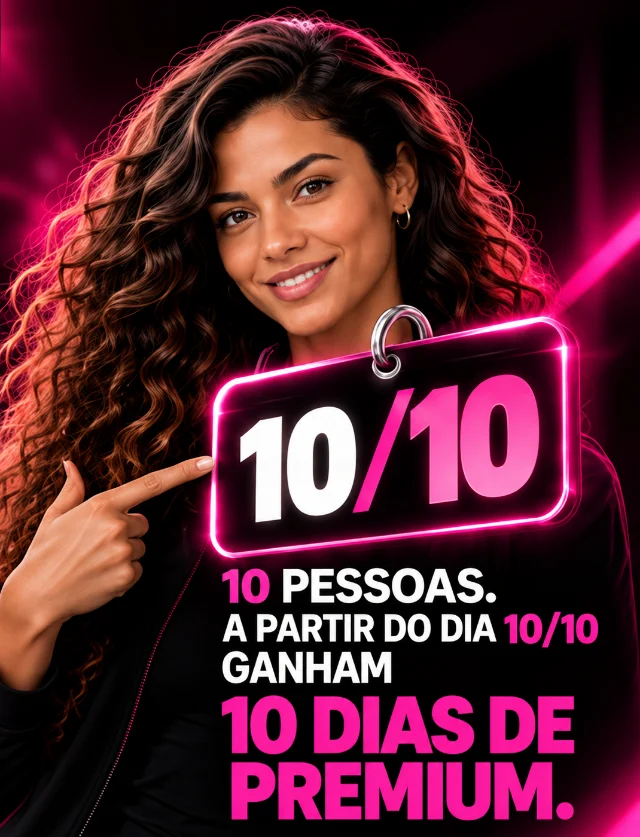
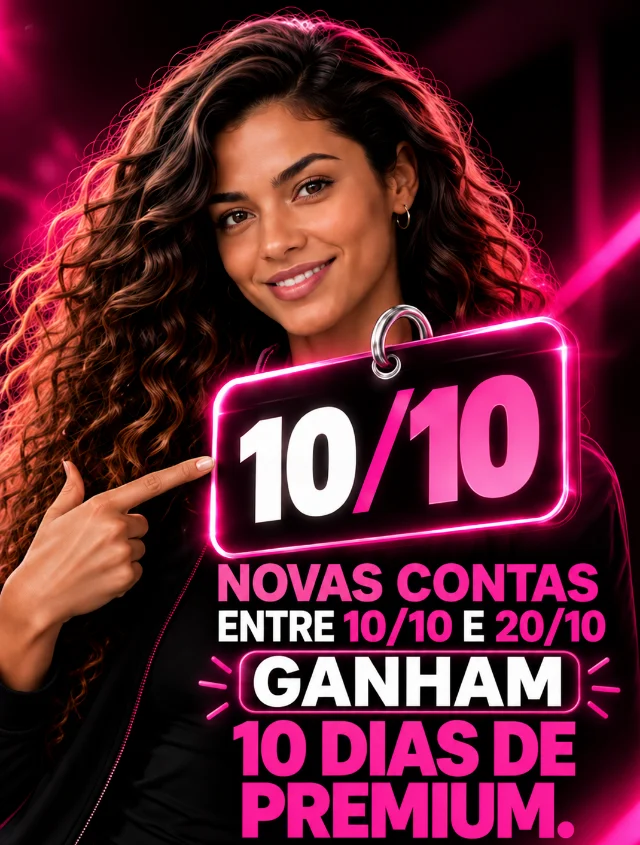
Launch popup: new art for the period (new accounts from 10/10 to 20/10)
Claude-Session: https://claude.ai/code/session_01J4mnLTKgmABHoSQbGZ8wnB

diff --git a/src/components/home/LaunchCampaignPopup.tsx b/src/components/home/LaunchCampaignPopup.tsx
@@ -91,7 +91,7 @@ export function LaunchCampaignPopup() {
           src={launchArt}
           alt=""
           width={640}
-          height={837}
+          height={845}
           className="block max-h-[58svh] w-full bg-black object-contain"
         />
         <div className="space-y-3 p-4">

diff --git a/AGENTS.md b/AGENTS.md
@@ -52,7 +52,7 @@
 - Public home (user decision): it sells the real strengths in compact blocks (hero "Fale inglês sem travar", an animated example conversation (ConversationDemo, labelled Exemplo, built in code), feature grid, Metas, real app screens, how it works, FAQ, final CTA) with no full-screen snap sections and no prices; plans are seen only after login. The launch campaign shows as a hero badge (LaunchCampaignBadge) as well as the popup, while places remain.
 - Public home funnel (migration 0054): anonymous daily counters (landing_daily_stats via bump_landing_stat: one visit per browser session, "Começar" clicks), no cookie or user id, as the Privacy Policy promises; Admin → Retenção shows visits, clicks and signups for 7 and 30 days (loadLandingFunnel).
 - Logo (user request): the in-page Logo is the owner's Evoluir+ symbol (flowing strokes with the turquoise geometry), cut tight and transparent, without the old white circle: light strokes on dark screens (src/assets/evoluir-symbol-light.webp) and dark strokes on light ones (evoluir-symbol-dark.webp), switched by the dark variant. Its size class sets only the height; the width follows the artwork (about 1:2), so it is never stretched and sits next to the app name.
-- Launch popup (user request): opens as soon as the campaign status arrives (no delay), shows the owner's 10/10 Outubro Rosa artwork of EVO whole (src/assets/home/launch-10-10.webp, cut above its AI watermark), then the live count and the button.
+- Launch popup (user request): opens as soon as the campaign status arrives (no delay), shows the owner's 10/10 Outubro Rosa artwork of EVO whole ("Novas contas entre 10/10 e 20/10") (src/assets/home/launch-10-10.webp, cut above its AI watermark), then the live count and the button.
 - Dashboard Today's Progress (user request): each line has its activity icon (lessons, words, accuracy) in grey that lights in the ring's colour when done (accuracy from 70%); "Daily goal reached" with a check under the ring; no "Keeping learning" label or closing line; the My progress button looks like Practice now. Your learning rhythm uses the same ring size and shows "Great consistency!" in brand green with a check. Extra practice buttons show at once and leave only once today's practice is known done (useActivityIndicators ready).
 - Keep improving photos (user request): words use src/assets/review-words.webp (also the vocabulary skill photo) and My mistakes src/assets/review-mistakes.webp.
 - Launch campaign by period (user decision, migration 0055, replacing the 10-place limit): every signup from 10/10 to 20/10 (São Paulo, ends_at 21/10 00:00 exclusive; slots NULL = no limit) gets 10 days of Premium through claim_premium_campaign; access ends with the entitlements' expires_at and the daily push puts the profile back to free (expireCampaignPremium) unless the student subscribed. Popup and hero badge talk about the period and days left (src/lib/campaignCopy.ts), not places.
